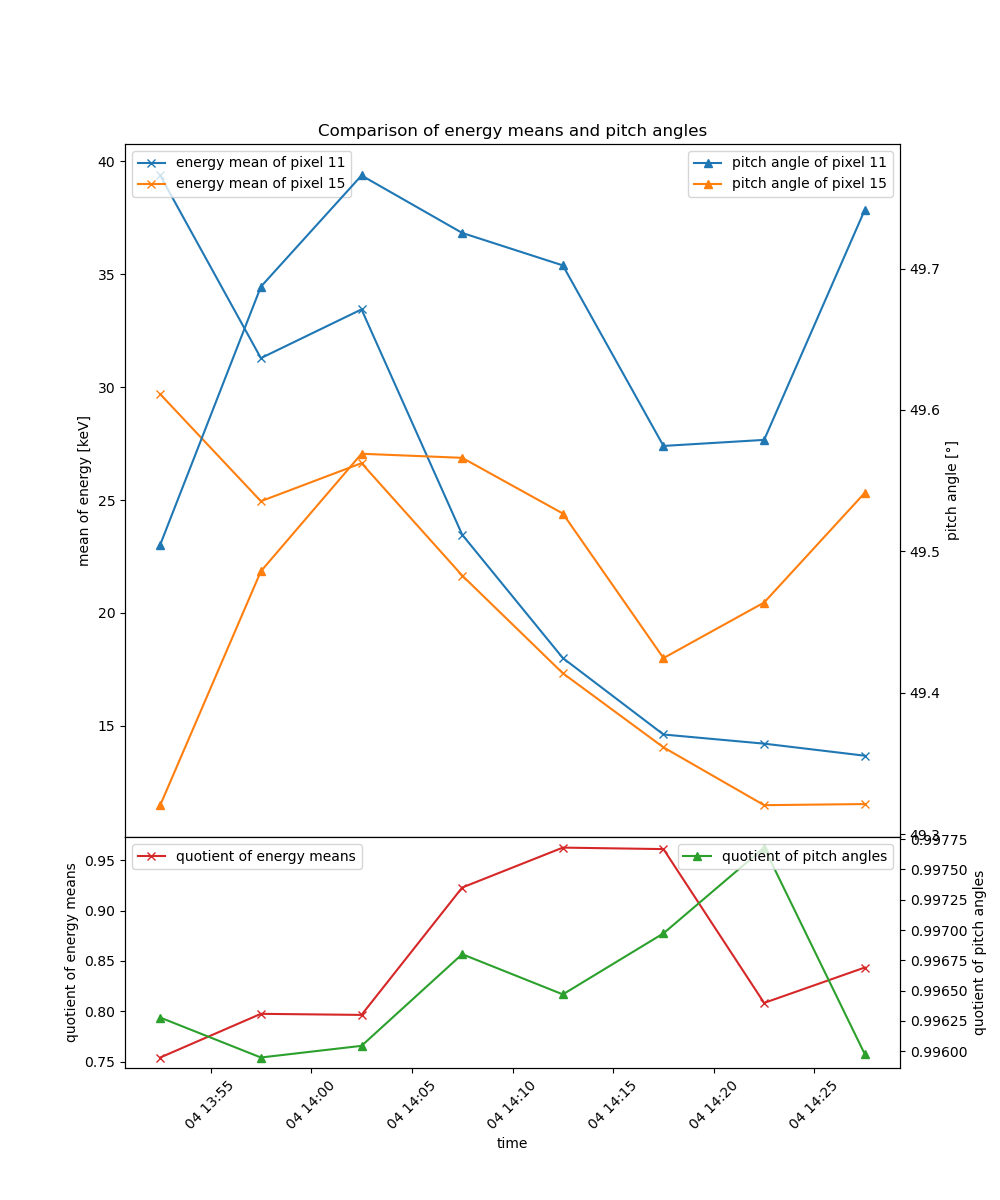
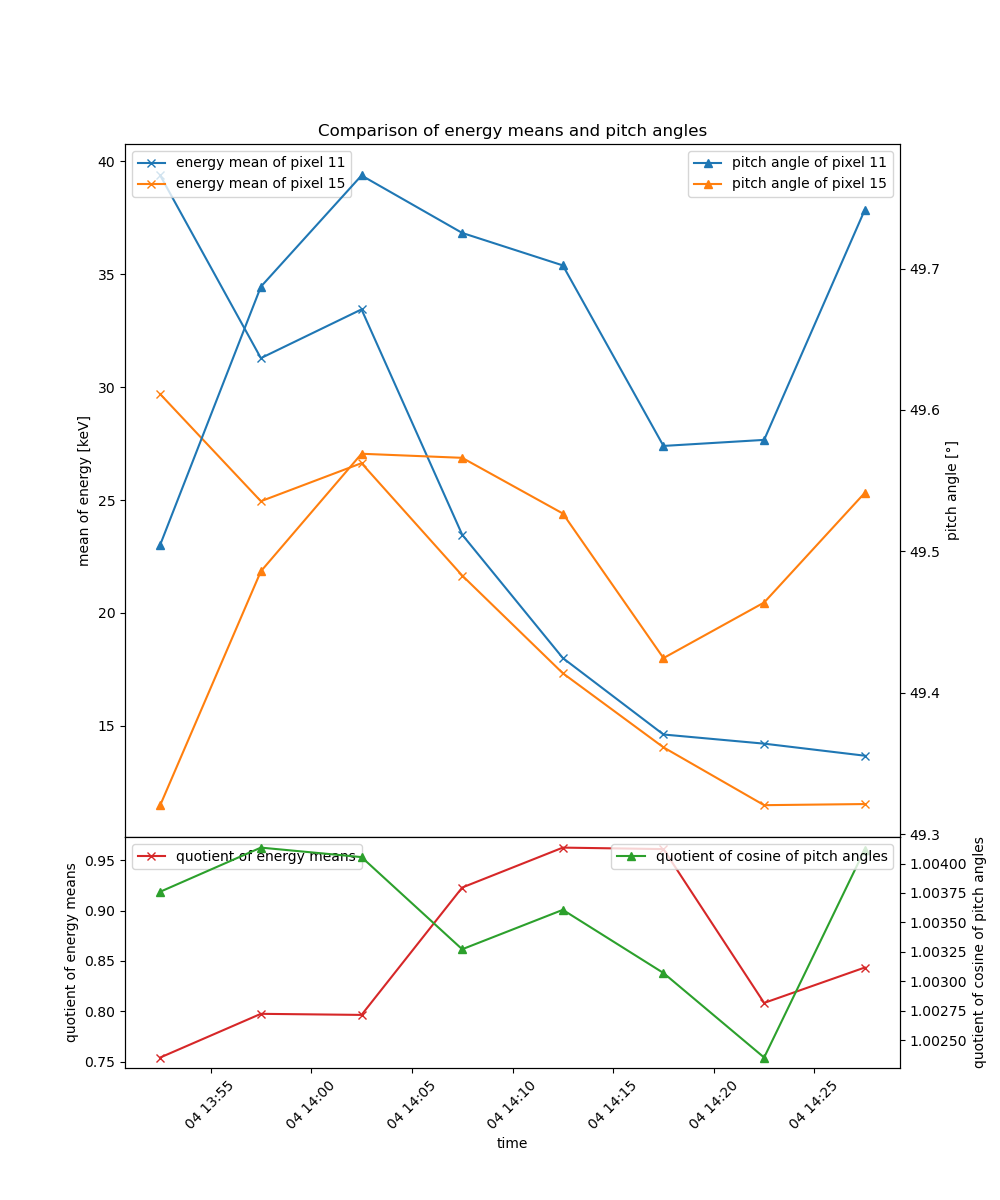
Meeting Präsi fertig machen.

diff --git a/STEP.py b/STEP.py
@@ -557,15 +557,15 @@ class STEP():
         ax_pw.set_ylabel('pitch angle [°]')
 
         # Hier mal rumspielen, ob ich eventuell eine brauchbare Korrektur finden kann...
-        # pw1_ayuda = np.radians(np.array(pw[pixel2-1]))
-        # pw2_ayuda = np.radians(np.array(pw[pixel1-1]))
-        pw1_ayuda = np.array(pw[pixel2-1])
-        pw2_ayuda = np.array(pw[pixel1-1])
+        pw1_ayuda = np.cos(np.radians(np.array(pw[pixel2-1])))
+        pw2_ayuda = np.cos(np.radians(np.array(pw[pixel1-1])))
+        # pw1_ayuda = np.array(pw[pixel2-1])
+        # pw2_ayuda = np.array(pw[pixel1-1])
 
         ax_quot.plot(pixel_means[0],pixel_means[pixel2]/pixel_means[pixel1],marker='x',label='quotient of energy means',c='tab:red')
-        ax_quot_pw.plot(pixel_means[0],pw1_ayuda/pw2_ayuda,marker='^',label='quotient of pitch angles',c='tab:green')
+        ax_quot_pw.plot(self.time,pw1_ayuda/pw2_ayuda,marker='^',label='quotient of cosine of pitch angles',c='tab:green')
         ax_quot.set_ylabel('quotient of energy means')
-        ax_quot_pw.set_ylabel('quotient of pitch angles')
+        ax_quot_pw.set_ylabel('quotient of cosine of pitch angles')
         ax_quot.set_xlabel('time')
         ax_quot.tick_params(axis='x',labelrotation=45)
         ax.set_title('Comparison of energy means and pitch angles')
